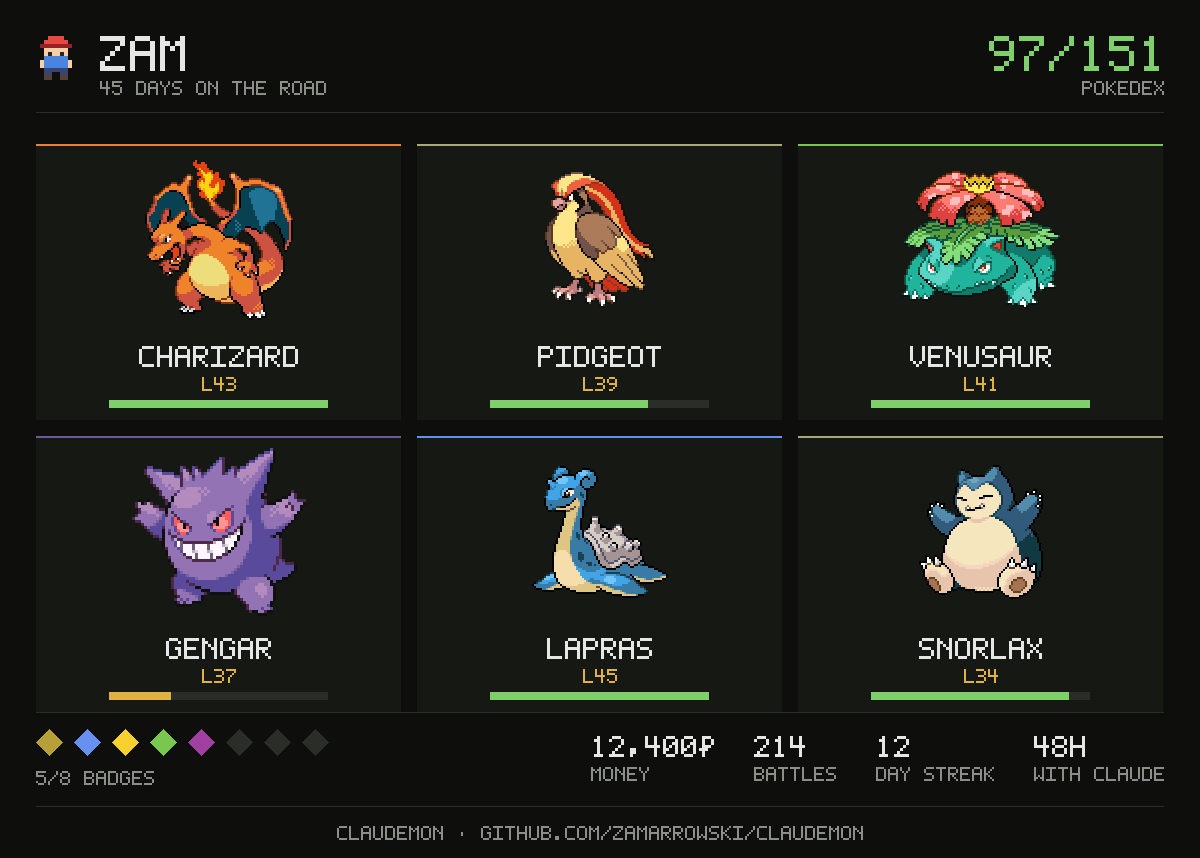
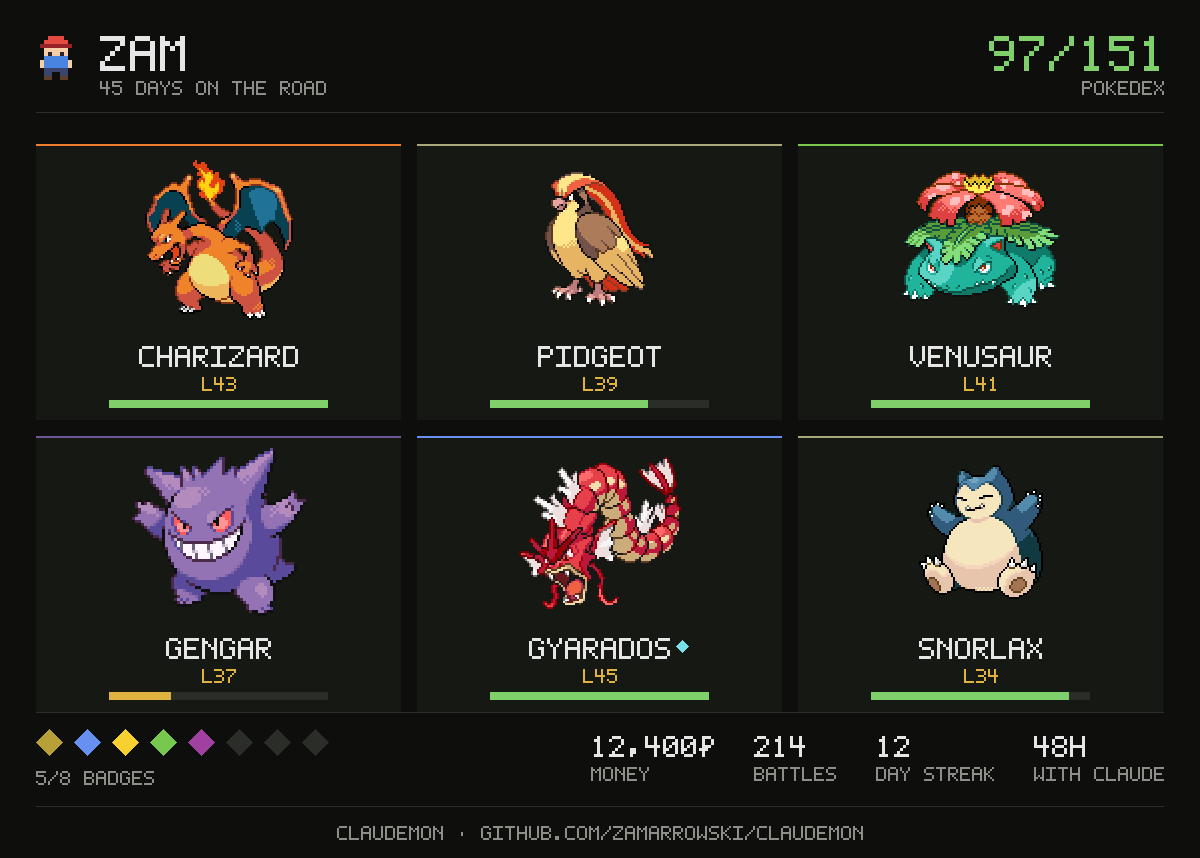
docs: a red gyarados on the card, so the shiny is the first thing you see
Nobody needs telling what a red Gyarados means. It stands in for the
whole feature better than a paragraph would.

Changed region(s): [[0.4317, 0.5455, 0.5858, 0.7273], [0.4317, 0.7273, 0.4625, 0.7879], [0.5242, 0.7273, 0.555, 0.7576]]

diff --git a/docs/index.html b/docs/index.html
@@ -399,8 +399,8 @@
     <p class="lede">Your six, drawn at the size they deserve, over your name, the days you have been at it, the badges in the colour of the type that gave them, and the hours Claude has spent working while you played.</p>
 
     <figure>
-      <img src="card-team.png" width="1200" height="858" alt="The trainer card: six Pokémon in two rows of three, each with its name, level and health bar, under the trainer name, the days played and the Pokédex count, with the eight badges and the totals along the bottom" loading="lazy">
-      <figcaption><b>SHARE</b>, from the home menu — it writes the card, opens it, and leaves you on the screen you were on. The line along the bottom means the picture carries its own way back here.</figcaption>
+      <img src="card-team.png" width="1200" height="858" alt="The trainer card: six Pokémon in two rows of three, each with its name, level and health bar, under the trainer name, the days played and the Pokédex count, with the eight badges and the totals along the bottom. The Gyarados is red rather than blue, with a mark beside its name saying it is shiny" loading="lazy">
+      <figcaption><b>SHARE</b>, from the home menu — it writes the card, opens it, and leaves you on the screen you were on. A shiny is drawn shiny and marked, so the one you spent four thousand encounters on is the one people see. The line along the bottom means the picture carries its own way back here.</figcaption>
     </figure>
 
     <p>Or from a terminal, if you would rather not open the game. <code>--out somewhere.png</code> writes it elsewhere, <code>--no-open</code> leaves the window shut.</p>
